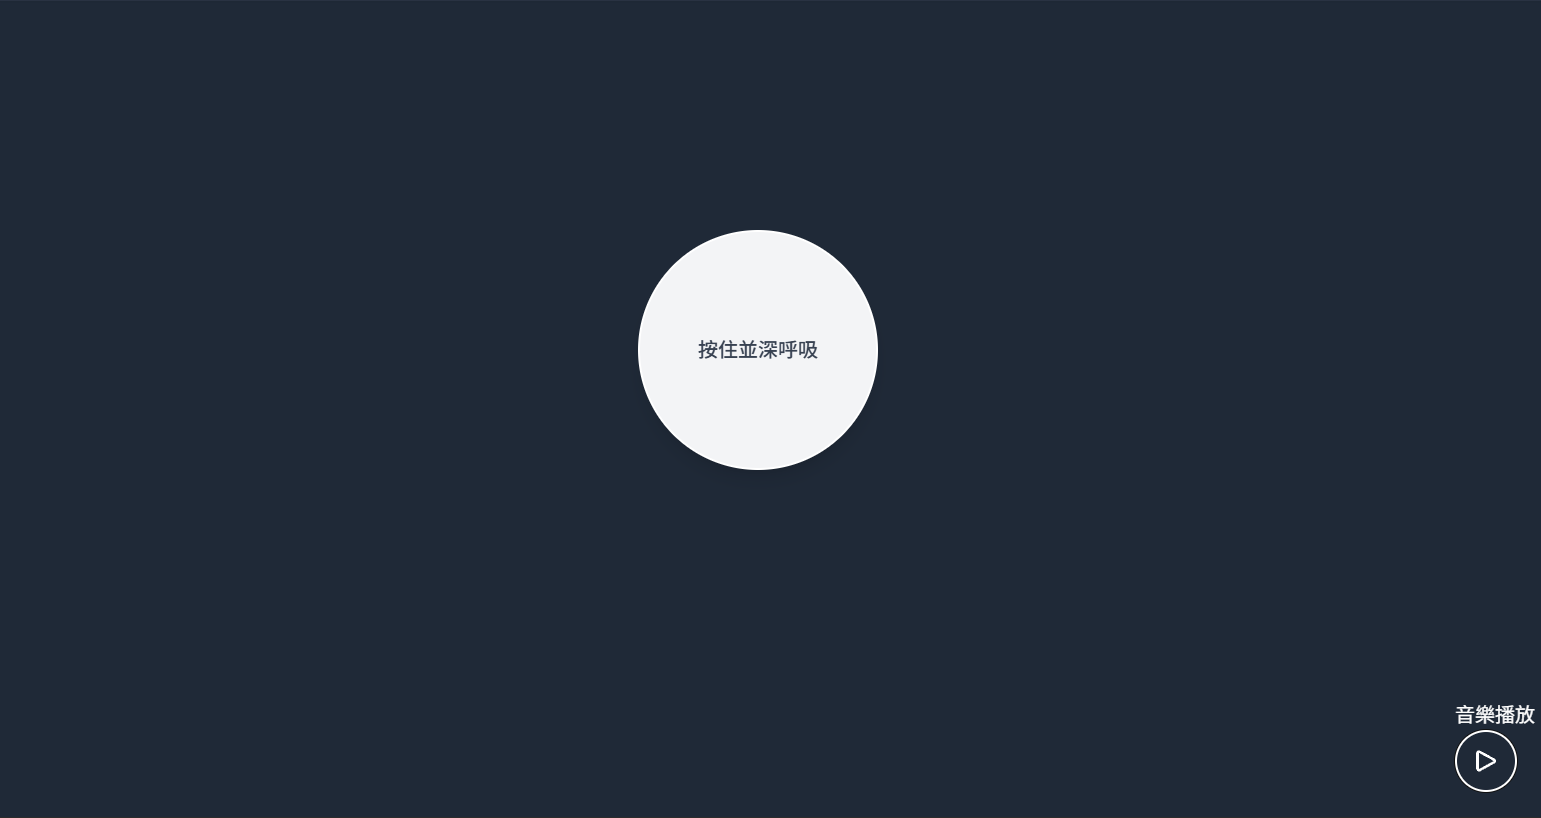
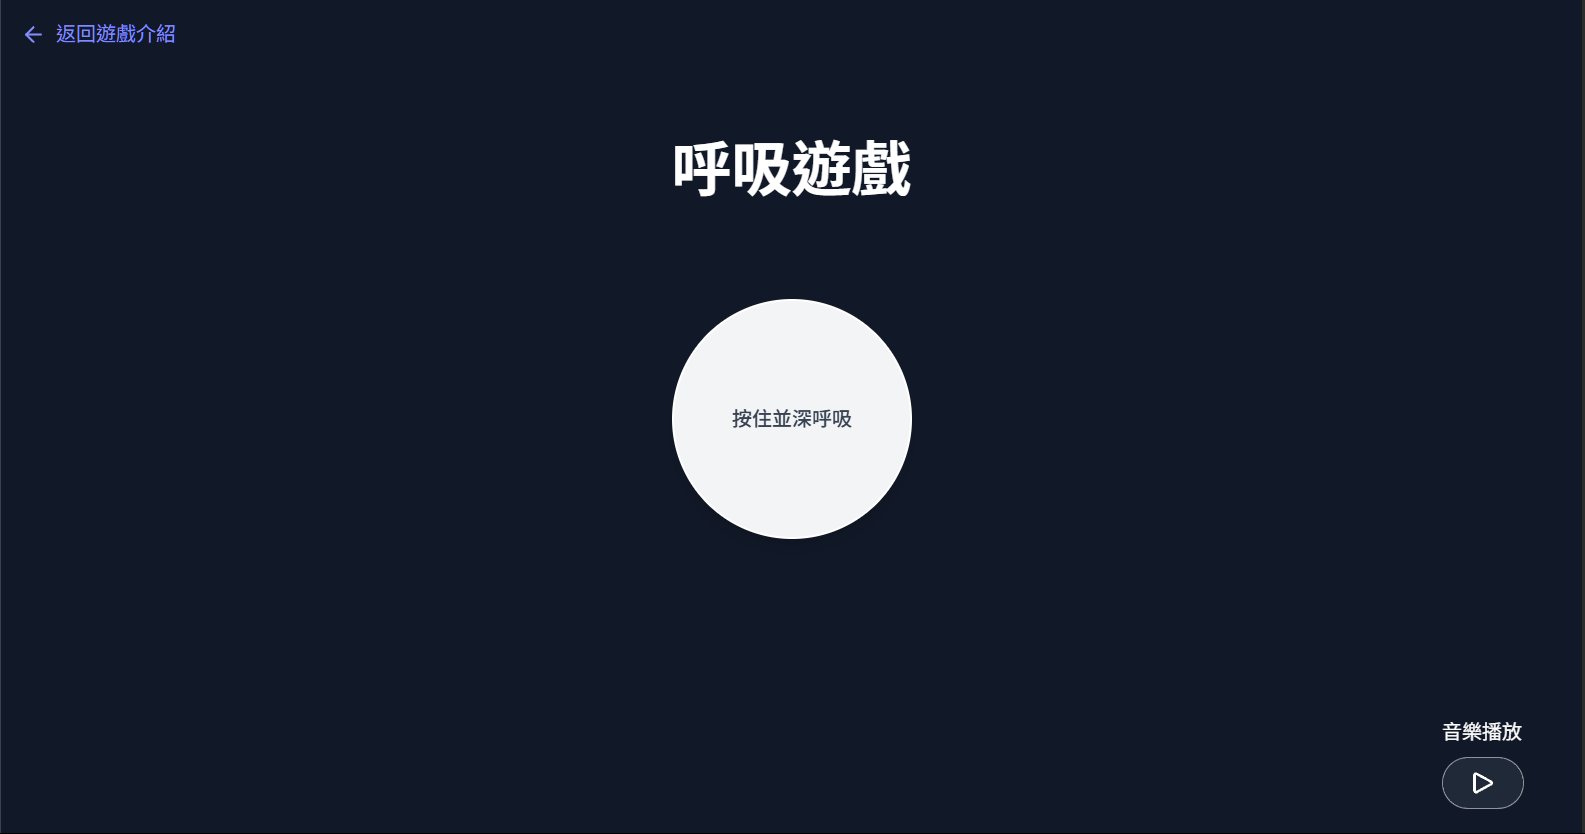
更新路徑而已

diff --git a/frontend/app/game/Breath/components/AudioPlayer.tsx b/frontend/app/game/Breath/components/AudioPlayer.tsx
@@ -1,6 +1,6 @@
-'use client'
-import { useState, useEffect, useRef } from 'react';
-import type { SyntheticEvent } from 'react';
+"use client";
+import { useState, useEffect, useRef } from "react";
+import type { SyntheticEvent } from "react";
 
 export default function AudioPlayer() {
   const audioRef = useRef<HTMLAudioElement | null>(null);
@@ -21,9 +21,9 @@ export default function AudioPlayer() {
       } else {
         const playPromise = audioRef.current.play();
         if (playPromise !== undefined) {
-          playPromise.catch(error => {
-            console.error('播放錯誤:', error);
-            setError('無法播放音訊檔案');
+          playPromise.catch((error) => {
+            console.error("播放錯誤:", error);
+            setError("無法播放音訊檔案");
           });
         }
       }
@@ -32,25 +32,51 @@ export default function AudioPlayer() {
   };
 
   const handleError = (e: SyntheticEvent<HTMLAudioElement, Event>) => {
-    console.error('音訊載入錯誤:', e);
-    setError('音訊檔案載入失敗');
+    console.error("音訊載入錯誤:", e);
+    setError("音訊檔案載入失敗");
   };
 
   return (
     <div className="fixed bottom-5 right-5">
-      <p className='fonttext-2xl mr-4 dark:text-white text-black'>音樂播放</p>
+      <p className="fonttext-2xl mr-7 dark:text-white text-black text-center">
+        音樂播放
+      </p>
       {error && <p className="text-red-500 text-sm mb-2">{error}</p>}
       <button
         onClick={togglePlay}
-        className="backdrop-blur-sm p-3 rounded-full hover:bg-white/60 transition-all duration-200 border border-white/50 dark:bg-gray-800 bg-stone-300"
+        className="backdrop-blur-sm p-2 mt-2 px-5 rounded-full hover:bg-white/60 transition-all duration-200 border border-white/50 dark:bg-gray-800 bg-stone-300"
       >
         {isPlaying ? (
-          <svg xmlns="http://www.w3.org/2000/svg" width="24" height="24" fill="none" viewBox="0 0 24 24" stroke="currentColor">
-            <path strokeLinecap="round" strokeLinejoin="round" strokeWidth={2} d="M15.75 5.25v13.5m-7.5-13.5v13.5" />
+          <svg
+            xmlns="http://www.w3.org/2000/svg"
+            width="24"
+            height="24"
+            fill="none"
+            viewBox="0 0 24 24"
+            stroke="currentColor"
+          >
+            <path
+              strokeLinecap="round"
+              strokeLinejoin="round"
+              strokeWidth={2}
+              d="M15.75 5.25v13.5m-7.5-13.5v13.5"
+            />
           </svg>
         ) : (
-          <svg xmlns="http://www.w3.org/2000/svg" width="24" height="24" fill="none" viewBox="0 0 24 24" stroke="currentColor">
-            <path strokeLinecap="round" strokeLinejoin="round" strokeWidth={2} d="M5.25 5.653c0-.856.917-1.398 1.667-.986l11.54 6.348a1.125 1.125 0 010 1.971l-11.54 6.347c-.75.412-1.667-.13-1.667-.986V5.653z" />
+          <svg
+            xmlns="http://www.w3.org/2000/svg"
+            width="24"
+            height="24"
+            fill="none"
+            viewBox="0 0 24 24"
+            stroke="currentColor"
+          >
+            <path
+              strokeLinecap="round"
+              strokeLinejoin="round"
+              strokeWidth={2}
+              d="M5.25 5.653c0-.856.917-1.398 1.667-.986l11.54 6.348a1.125 1.125 0 010 1.971l-11.54 6.347c-.75.412-1.667-.13-1.667-.986V5.653z"
+            />
           </svg>
         )}
       </button>

diff --git a/frontend/app/game/introduction/page.tsx b/frontend/app/game/introduction/page.tsx
@@ -70,22 +70,22 @@ const gameInfo: Record<string, GameInfo> = {
     imageUrl: "/images/whack-a-mole.png",
     darkImageUrl: "/images/whack-a-mole-dark.png",
   },
-  "memory-game": {
-    name: "記憶拼圖",
-    description: "訓練記憶力與專注力",
+  "SnakeGame": {
+    name: "貪吃蛇",
+    description: "歐趴貪吃蛇吃到歐趴",
     longDescription:
-      "考驗記憶力的翻牌遊戲，需要記住卡片的位置並配對相同的圖案。適合所有年齡層的玩家。",
-    features: ["多種圖案主題", "難度調整", "計時模式", "配對動畫"],
-    imageUrl: "/images/memory-game.png",
-    darkImageUrl: "/images/memory-game-dark.png",
+      "經典貪吃蛇遊戲，放鬆身心，享受遊戲的樂趣。",
+    features: ["多種模式", "可調整難度", "計時挑戰", "進度保存"],
+    imageUrl: "/images/SnakeGame.png",
+    darkImageUrl: "/images/Snake-dark.png",
   },
-  "circle-circle": {
-    name: "圈圈差差",
+  "Gomoku": {
+    name: "五子棋",
     description: "訓練邏輯",
     longDescription:
-      "經典的圈圈叉叉遊戲，加入了新的玩法和特殊規則。可以和電腦對戰或和朋友一起玩。",
-    features: ["AI對戰", "多人模式", "特殊規則", "戰績統計"],
-    imageUrl: "/images/circle-circle.png",
+      "經典的五子棋遊戲，加入了新的玩法和特殊規則。可以和電腦對戰或和朋友一起玩。",
+    features: ["AI對戰", "特殊規則", "戰績統計"],
+    imageUrl: "/images/Gomoku.png",
     darkImageUrl: "/images/circle-circle-dark.png",
   },
 };

diff --git a/frontend/app/game/page.tsx b/frontend/app/game/page.tsx
@@ -55,22 +55,22 @@ const games = [
     introPath: "/game/introduction?game=whack-a-mole",
   },
   {
-    id: "memory-game",
-    name: "記憶拼圖",
-    description: "訓練記憶力與專注力",
-    imageUrl: "/images/memory-game.png",
-    darkImageUrl: "/images/memory-game-dark.png",
-    path: "/game/memory-game",
-    introPath: "/game/introduction?game=memory-game",
+    id: "SnakeGame",
+    name: "貪吃蛇",
+    description: "歐趴貪吃蛇吃到歐趴",
+    imageUrl: "/images/SnakeGame.png",
+    darkImageUrl: "/images/Snake-dark.png",
+    path: "/game/Snake",
+    introPath: "/game/introduction?game=SnakeGame",
   },
   {
-    id: "circle-circle",
-    name: "圈圈差差",
-    description: "訓練邏輯",
-    imageUrl: "/images/circle-circle.png",
+    id: "Gomoku",
+    name: "五子棋",
+    description: "經典的五子棋遊戲，加入了新的玩法和特殊規則。",
+    imageUrl: "/images/Gomoku.png",
     darkImageUrl: "/images/circle-circle-dark.png",
     path: "/game/circle-circle",
-    introPath: "/game/introduction?game=circle-circle",
+    introPath: "/game/introduction?game=Gomoku",
   },
 ];
 

diff --git a/frontend/app/game/Breath/page.tsx b/frontend/app/game/Breath/page.tsx
@@ -1,12 +1,24 @@
+"use client";
+
 import Image from "next/image";
 import BreathingCircle from './components/BreathingCircle';
 import AudioPlayer from './components/AudioPlayer';
+import BackButton from "../typing/components/BackButton";
 
 export default function Home() {
   return (
-    <div className="h-screen w-screen flex items-center justify-center dark:bg-gray-800 bg-gray-50">
-      <BreathingCircle />
-      <AudioPlayer />
+    <div
+      className={`min-h-screen min-w-screen flex flex-col items-center justify-start`}
+    >
+      <div className="flex justify-start w-full pl-4 mt-4">
+        <BackButton text="返回遊戲介紹" />
+      </div>
+
+      <h1 className="text-5xl font-bold mb-20 mt-10 text-center">呼吸遊戲</h1>
+      <div className="flex justify-center items-center flex-col gap-4 ">
+        <BreathingCircle />
+        <AudioPlayer />
+      </div>
     </div>
   );
 }

diff --git a/frontend/lib/types/game.ts b/frontend/lib/types/game.ts
@@ -1,0 +1,25 @@
+export interface PuzzleTheme {
+    id: string;
+    title: string;
+    image: string;
+    description: string;
+    placeholder: string;
+  }
+  
+  export interface PuzzlePiece {
+    id: number;
+    correctPosition: number;  // 正確的位置索引
+    currentPosition: number;  // 當前的位置索引
+  }
+  
+  export interface GameStatusPanelProps {
+    time: number;
+    moves: number;
+    isCompleted: boolean;
+    onRestart: () => void;
+  }
+  
+  export interface PuzzleGameProps {
+    theme: string;
+    difficulty: number;
+  } 
